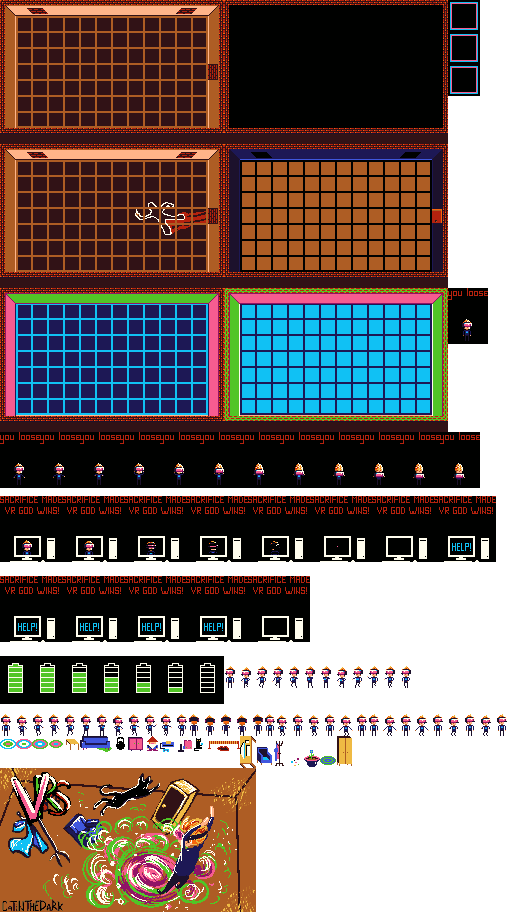
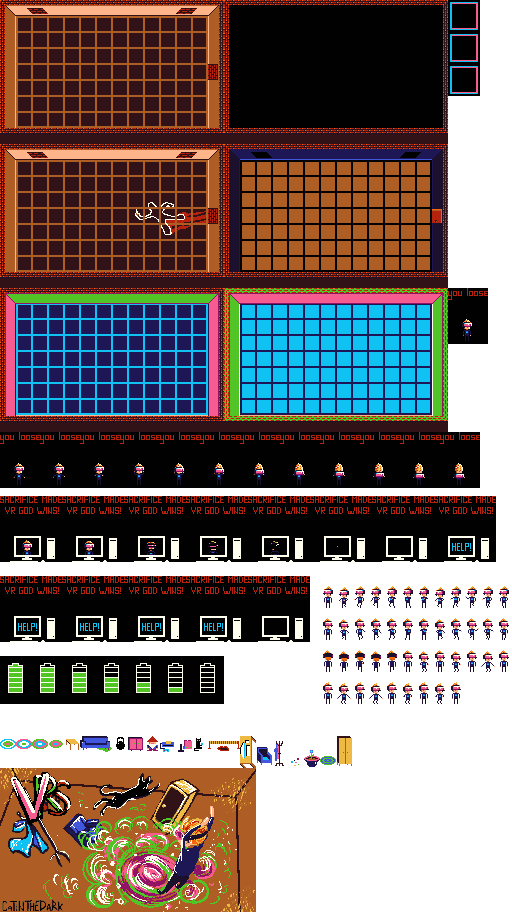
add player animations

Changed region(s): [[0.0, 0.6447, 1.0, 0.8289]]

diff --git a/game/drawables.py b/game/drawables.py
@@ -108,3 +108,74 @@ class CompTable(Drawable):
 
     def draw(self, x, y, dt):
         spr(x, y, 15 * 16, 46 * 16, 16, 32, 0, 0, 0)
+
+
+class PlayerGoLeft(Drawable):
+    def __init__(self) -> None:
+        super().__init__()
+        self.animation = Animation(sprites=(
+            (20 * 16, 36 * 16),
+            (21 * 16, 36 * 16),
+            (22 * 16, 36 * 16),
+            (23 * 16, 36 * 16),
+            (24 * 16, 36 * 16),
+            (24 * 16, 36 * 16),
+            (26 * 16, 36 * 16),
+            (27 * 16, 36 * 16),
+            (28 * 16, 36 * 16),
+            (29 * 16, 36 * 16),
+            (30 * 16, 36 * 16),
+            (31 * 16, 36 * 16),
+        ), width=16, height=32, speed=12, cycle=True)
+
+    def draw(self, x, y, dt):
+        self.animation.draw(dt, x, y)
+
+
+class PlayerGoRight(Drawable):
+    def __init__(self) -> None:
+        super().__init__()
+        self.animation = Animation(sprites=(
+            (20 * 16, 38 * 16),
+            (21 * 16, 38 * 16),
+            (22 * 16, 38 * 16),
+            (23 * 16, 38 * 16),
+            (24 * 16, 38 * 16),
+            (24 * 16, 38 * 16),
+            (26 * 16, 38 * 16),
+            (27 * 16, 38 * 16),
+            (28 * 16, 38 * 16),
+            (29 * 16, 38 * 16),
+            (30 * 16, 38 * 16),
+            (31 * 16, 38 * 16),
+        ), width=16, height=32, speed=12, cycle=True)
+
+    def draw(self, x, y, dt):
+        self.animation.draw(dt, x, y)
+
+class PlayerGoUp(Drawable):
+    def __init__(self) -> None:
+        super().__init__()
+        self.animation = Animation(sprites=(
+            (20 * 16, 40 * 16),
+            (21 * 16, 40 * 16),
+            (22 * 16, 40 * 16),
+            (23 * 16, 40 * 16),
+            (24 * 16, 40 * 16),
+        ), width=16, height=32, speed=8, cycle=True)
+
+    def draw(self, x, y, dt):
+        self.animation.draw(dt, x, y)
+
+class PlayerGoDown(Drawable):
+    def __init__(self) -> None:
+        super().__init__()
+        self.animation = Animation(sprites=(
+            (20 * 16, 42 * 16),
+            (21 * 16, 42 * 16),
+            (22 * 16, 42 * 16),
+            (26 * 16, 40 * 16),
+        ), width=16, height=32, speed=6, cycle=True)
+
+    def draw(self, x, y, dt):
+        self.animation.draw(dt, x, y)

diff --git a/game/eval_scene.py b/game/eval_scene.py
@@ -1,23 +1,23 @@
+from drawables import PlayerGoLeft, PlayerGoRight, PlayerGoUp, PlayerGoDown
 from levels import get_tiles
 from main import Ctx, Player, Direction
 from route_machine import Scene
-
+import jvcr
 
 class EvalScene(Scene):
     def __init__(self, storage) -> None:
-        self.ctx: Ctx = None
         self.storage = storage
+        self.player_left = PlayerGoLeft()
+        self.player_right = PlayerGoRight()
+        self.player_up = PlayerGoUp()
+        self.player_down = PlayerGoDown()
 
     def on_activate(self):
-        player = Player(x=0, y=0, dir=Direction.UP)
-        room = get_tiles(self.storage)
-        self.ctx = Ctx(room, player)
+        pass
 
     def update(self, dt) -> str:
-        # jvcr.print("GAME", 1, 1, 8)
-        #
-        # if jvcr.btn(jvcr.BTN_UP, 0):
-        #     return "win"
-        # if jvcr.btn(jvcr.BTN_DOWN, 0):
-        #     return "lose"
-        self.ctx.render()
+        jvcr.cls(5)
+        self.player_left.draw(0, 0, dt)
+        self.player_right.draw(16, 0, dt)
+        self.player_up.draw(32, 0, dt)
+        self.player_down.draw(48, 0, dt)
